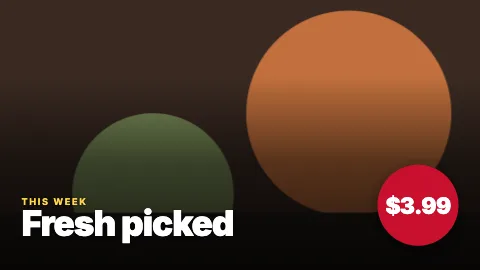
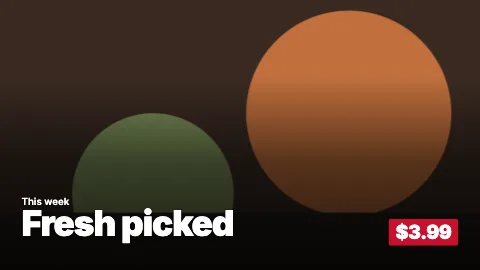
feat(photo-promo): the eyebrow in the text colour, the price a flat tag
The board's photo promo (#news-design): the eyebrow takes the kit's text colour instead of a second accent (3.6vmin,
600, sentence case), measured over the photo as before and on its scrim where nothing reads; the price is a flat tag
in the primary colour, with no disc and no shadow, its corners 2vmin at most. brandColourTests takes
`textColourOnBackdrop` for text in the kit's text colour. The #308 test's old kit now has its own text colour, so the
test fails without the guard. Photo promo 1.6.0.

Pi measurement waived by the owner (2026-11-26).

Changed region(s): [[0.7812, 0.5926, 0.9688, 0.9185], [0.0312, 0.7111, 0.1875, 0.7704]]

diff --git a/packages/template-test/src/index.ts b/packages/template-test/src/index.ts
@@ -460,7 +460,8 @@ export type BrandSpot = [data: Data, photo?: string, sampled?: boolean | 'broken
  * kit with poor on-colours, a light kit, a borderline accent, mid-tone accents, an accent just over
  * 3:1 and a mid-tone background. `spots(accent, orientation)` are the template's spots, given the
  * accent `$brand.accent` resolves to. `onFill` is text on a fill (text, fill, the ratio it needs);
- * `onBackdrop` is accent-coloured text, measured on whatever is behind it. With `sameWithSample`,
+ * `onBackdrop` is accent-coloured text, measured on whatever is behind it; `textColourOnBackdrop` is text in the kit's text
+ * colour, measured the same way and kept in that colour wherever it reads. With `sameWithSample`,
  * that text's colour, and whether it is on its scrim, is the same with the photo's sample as
  * without one and with one that does not decode.
  */
@@ -470,10 +471,11 @@ export function brandColourTests(
     spots: (accent: string, orientation: Orientation) => BrandSpot[] | Promise<BrandSpot[]>;
     onFill?: [text: string, fill: string, min: number][];
     onBackdrop: string[];
+    textColourOnBackdrop?: string[];
     sameWithSample?: string;
   },
 ) {
-  const { spots, onFill = [], onBackdrop, sameWithSample } = opts;
+  const { spots, onFill = [], onBackdrop, textColourOnBackdrop = [], sameWithSample } = opts;
   const demo = DEMO_KIT;
   // A kit may set its on-colours by hand; the brand tools only warn when a pair fails.
   const poor: BrandColors = { ...demo, onPrimary: '#2563eb', onAccent: '#ffffff' };
@@ -586,10 +588,10 @@ export function brandColourTests(
           expect(found).toEqual([]);
         });
 
-      // A kit's accent is kept wherever it reads (4.5:1, or 3:1 on large text), and gives way to black or white where it does not. With no kit, cstore-promo's and
-      // photo-promo's text is their own. 0.1 to spare: a template measures the ends of a gradient,
-      // this test the pixels in the box.
-      it(`accent text reads on its backdrop under ${label}, ${orientation}, in the accent where that reads`, async () => {
+      // A kit's accent, or its text colour, is kept wherever it reads (4.5:1, or 3:1 on large text), and gives way to black
+      // or white where it does not. With no kit, cstore-promo's and photo-promo's text is their own. 0.1 to spare: a
+      // template measures the ends of a gradient, this test the pixels in the box.
+      it(`accent and text-coloured text reads on its backdrop under ${label}, ${orientation}, in its colour where that reads`, async () => {
         const found: string[] = [];
         /** `sameWithSample` over each photo, with the photo's sample and without. */
         const seenWith = new Map<string, string[]>();
@@ -602,14 +604,18 @@ export function brandColourTests(
             const photo = name.replace(/, (sampled|broken sample)/, '');
             seenWith.set(photo, [...(seenWith.get(photo) ?? []), seen]);
           }
-          for (const text of onBackdrop) {
+          const inks = [
+            ...onBackdrop.map((sel) => [sel, 'accent', accent] as const),
+            ...textColourOnBackdrop.map((sel) => [sel, 'text colour', theme?.colors.text] as const),
+          ];
+          for (const [text, role, ink] of inks) {
             const { color, pixels, large } = await textOnBackdrop(f, page, text);
             const min = large ? 3 : 4.5;
             const ratio = worst(color, pixels);
             if (ratio < min) found.push(`${name} ${text}: ${color} is ${ratio.toFixed(2)}:1 on its backdrop, below ${min}:1`);
-            const reads = worst(rgb(accent), pixels);
-            if (theme && color !== rgb(accent) && reads >= min + 0.1)
-              found.push(`${name} ${text}: ${color}, not the accent, which reads at ${reads.toFixed(2)}:1`);
+            if (!theme || !ink) continue;
+            const reads = worst(rgb(ink), pixels);
+            if (color !== rgb(ink) && reads >= min + 0.1) found.push(`${name} ${text}: ${color}, not the ${role}, which reads at ${reads.toFixed(2)}:1`);
           }
         });
         // The sample stands in for the photo, and a broken one leaves the photo: the same text every way.

diff --git a/templates/photo-promo/test/browser.test.ts b/templates/photo-promo/test/browser.test.ts
@@ -73,21 +73,22 @@ brandColourTests(t, {
     ];
   },
   onFill: [['.tag', '.tag', 4.5]],
-  onBackdrop: ['.eyebrow'],
+  onBackdrop: [],
+  textColourOnBackdrop: ['.eyebrow'],
   sameWithSample: '.eyebrow',
 });
 
 // The SDK restores the document and inits again on new data, while the old prepare may still be
 // measuring the eyebrow's backdrop. Here the first prepare is held at its first wait until the new
 // data has played its own prepare: resuming must not set the eyebrow's colour on the new document
-// (#308). The old data's kit has a green accent and the new data's none, so the old prepare's
-// eyebrow colour (green, black or white) is never the new one's (the default accent).
+// (#308). The old data's kit has green text and the new data's none, so the old prepare's eyebrow
+// colour (green, or black on its scrim) is never the new one's (the default white).
 describe('photo-promo (#308)', () => {
   it('a prepare that new data replaced, resuming while it measures, leaves the new document as a fresh load', async () => {
     const hst = await host('landscape', true);
     const a = spotData(t().manifest, { body: 'Picked this morning' });
     const b = spotData(t().manifest, { headline: 'Two for one' });
-    const green: FrameTheme = { colors: { ...DEMO_KIT, accent: '#22c55e' }, shape: 'soft', fonts: {} };
+    const green: FrameTheme = { colors: { ...DEMO_KIT, text: '#22c55e' }, shape: 'soft', fonts: {} };
     await hst.open('fresh', t().html);
     await hst.init('fresh', b, { photo: '#000000' }, undefined, undefined, true);
     await hst.waitFor('fresh', 'ready', 1);
@@ -151,4 +152,23 @@ for (const orientation of ['landscape', 'portrait'] as const)
     const durationMs = 11_000;
     const f = await k.play({ body: 'Picked this morning' }, undefined, durationMs);
     expect(await motionContract(f, durationMs)).toEqual([]);
+  });
+
+// The board's photo promo (#news-design): the price is a flat tag, not a floating disc with a shadow.
+for (const orientation of ['landscape', 'portrait'] as const)
+  it(`shows the price as a flat tag, ${orientation}`, async () => {
+    const k = await screenFrame(t(), orientation, { photo: '#963' });
+    const tag = await (await k.play({}, { colors: DEMO_KIT, shape: 'round', fonts: {} })).evaluate(() => {
+      const el = document.querySelector('.tag')!;
+      const style = getComputedStyle(el);
+      const box = el.getBoundingClientRect();
+      return {
+        shadow: style.boxShadow,
+        radius: Number.parseFloat(style.borderTopLeftRadius) / (Math.min(innerWidth, innerHeight) / 100),
+        wider: box.width > box.height,
+      };
+    });
+    expect(tag.shadow).toBe('none');
+    expect(tag.radius).toBeLessThanOrEqual(2);
+    expect(tag.wider).toBe(true);
   });

diff --git a/templates/photo-promo/main.ts b/templates/photo-promo/main.ts
@@ -10,12 +10,12 @@ defineTemplate({
     const kit = ctx.root.style;
     const primary = kit.getPropertyValue('--sf-primary');
     if (primary) kit.setProperty('--sf-on-primary', readableOn(primary, kit.getPropertyValue('--sf-on-primary')));
-    // The eyebrow is the accent over the photo, seen through a shade of the background: measured
-    // there, it is the accent where that reads, else black or white. A photo with light and dark
+    // The eyebrow is the text colour over the photo, seen through a shade of the background: measured
+    // there, it is the text colour where that reads, else black or white. A photo with light and dark
     // under it can leave none reading, and the eyebrow then sits on a fill of the background.
     const css = getComputedStyle(ctx.root);
     const bg = css.getPropertyValue('--bg');
-    const accent = css.getPropertyValue('--accent');
+    const ink = css.getPropertyValue('--text');
     const eyebrow = document.querySelector<HTMLElement>('.eyebrow')!;
     // Unpainted until prepare returns: a frame that paints the photo has it decoded for the screen
     // first, and the SDK's decode before ready then waits behind that one (on the Pi, 80 ms more).
@@ -27,9 +27,9 @@ defineTemplate({
     // and inits again. Rejecting stops this prepare there, and the SDK drops a superseded prepare's error.
     if (document.body !== page) throw new Error('new data replaced this prepare');
     img.style.visibility = '';
-    const over = readableOver(pixels, accent, { large: true, lightest });
+    const over = readableOver(pixels, ink, { large: true, lightest });
     if (!over) eyebrow.classList.add('scrim');
-    kit.setProperty('--accent-text', over ?? readableOn(bg, accent, { large: true }));
+    kit.setProperty('--eyebrow-ink', over ?? readableOn(bg, ink, { large: true }));
   },
 });
 

diff --git a/templates/photo-promo/style.css b/templates/photo-promo/style.css
@@ -119,7 +119,6 @@ body {
 :root {
   --bg: var(--sf-bg, #000);
   --text: var(--sf-text, #fff);
-  --accent: var(--sf-accent, #ffd84a);
 }
 body {
   font-family: var(--sf-font-body, 'Inter'), sans-serif;
@@ -176,12 +175,11 @@ body {
     rise-in 0.65s var(--d-in) both,
     fade-out 0.3s var(--d-out) forwards;
 }
+/* The eyebrow in the text colour, not a second accent: the price tag is the one colour. */
 .eyebrow {
-  font-size: calc(var(--u) * 3.4);
-  font-weight: 700;
-  letter-spacing: 0.18em;
-  text-transform: uppercase;
-  color: var(--accent-text, var(--accent));
+  font-size: calc(var(--u) * 3.6);
+  font-weight: 600;
+  color: var(--eyebrow-ink, var(--text));
   animation-delay: 0.3s, var(--out);
 }
 /* Where nothing reads over the photo under the eyebrow (main.ts), it gets a fill of the background.
@@ -207,21 +205,19 @@ body {
   margin-top: calc(var(--u) * 2);
   animation-delay: 0.52s, var(--out);
 }
+/* The price, a flat tag in the primary colour beside the copy's foot: no disc, no shadow. */
 .tag {
   position: absolute;
   right: calc(var(--u) * 8);
   bottom: calc(var(--u) * 9);
-  width: calc(var(--u) * 30);
-  aspect-ratio: 1;
-  border-radius: 50%;
-  display: grid;
-  place-items: center;
+  padding: calc(var(--u) * 1.4) calc(var(--u) * 2.6);
+  border-radius: min(var(--sf-radius, calc(var(--u) * 1)), calc(var(--u) * 2));
   background: var(--sf-primary, #c8102e);
   color: var(--sf-on-primary, #fff);
-  font-size: calc(var(--u) * 8.4);
+  font-size: calc(var(--u) * 7.2);
   font-weight: 900;
+  line-height: 1;
   letter-spacing: -0.03em;
-  box-shadow: 0 2vmin 6vmin color-mix(in srgb, var(--bg) 50%, transparent);
   will-change: transform, opacity;
   animation:
     tag-in 0.65s var(--d-in) both,

diff --git a/docs/template-spec.md b/docs/template-spec.md
@@ -82,9 +82,9 @@ Each template's browser tests check it (`templates/<id>/test/browser.test.ts`, i
 - `readableOver(pixels, text, { large, lightest })` from `@signforge/template-sdk/backdrop` is the same for a backdrop that is not one colour, text over a photo: given the RGBA pixels behind the text, it is `text` when it reads on every one, else black or white when one of them does, else undefined, and the text needs a fill of its own. With `lightest`, the pixels are an image's sample: each cell's darkest pixel in `pixels` and its lightest at the same place in `lightest`, and the text must read on every colour between the two.
   - **Read the sample, not the photo.** An image uploaded or built since #169 has a sample (`ManifestFile.sample` in the contract): its darkest and lightest pixel in each cell of `IMAGE_SAMPLE_CELL` (16) px, as a PNG of the darkest cells over the lightest. `init` carries it beside the image, as `ctx.assets[sampleAsset(field)]` (both from the same entry point). Drawing the photo into a canvas decodes it again on the main thread, whatever the size of the part read: 70 ms of a Pi's prepare for a 1080p photo. The sample is a few hundred times fewer pixels.
   - **Do not wait for the photo, and do not let it paint, while `prepare` runs.** Before `ready` the SDK awaits `img.decode()`, and the first frame's raster decodes the photo again; the two run one after the other, off the main thread, about 100 ms on a Pi. When a frame paints the loaded photo while `prepare` is still running, the raster's decode is scheduled first and the SDK's waits behind it, so `ready` waits for both: on the Pi that, not the canvas, was most of what #168 cost (`spike/pi-perf/RESULTS.md`, Photo samples). So photo-promo hides its photo (`visibility: hidden`) until `prepare` returns, and takes the photo's size from its sample, to the cell, rather than waiting for the photo to load. Calling `img.decode()` early does not help: each call decodes again.
-  - **photo-promo's eyebrow** maps the text's box to the photo's pixels, wherever the push-in takes it during the spot, for every size within the cell the photo can be, and draws the sample's cells under that into a canvas, without smoothing, twice over: its darkest cells and its lightest. It paints the shade over each as the shade is at the box's top and at its bottom, and reads that once. A cell is a range, not an average: averaging is what kept the demo kit's orange at 2.88:1 in portrait over a 4K photo, measured one pixel per 4 px (#168). The two are chosen before the shade, so under it a third pixel of the cell can come out a little darker or lighter than both (a search of random pixels found up to 1.16 times the contrast under a dark kit's shade, 1.4 under a light or coloured one). Real photos rarely have such cells, and none of 252 cases measured on screen fell under 3:1. A sample that does not decode, or that the player does not hold yet, leaves the template to measure the photo.
+  - **photo-promo's eyebrow**, in the kit's text colour (the price tag is its one colour), maps the text's box to the photo's pixels, wherever the push-in takes it during the spot, for every size within the cell the photo can be, and draws the sample's cells under that into a canvas, without smoothing, twice over: its darkest cells and its lightest. It paints the shade over each as the shade is at the box's top and at its bottom, and reads that once. A cell is a range, not an average: averaging is what kept the demo kit's orange at 2.88:1 in portrait over a 4K photo, measured one pixel per 4 px (#168). The two are chosen before the shade, so under it a third pixel of the cell can come out a little darker or lighter than both (a search of random pixels found up to 1.16 times the contrast under a dark kit's shade, 1.4 under a light or coloured one). Real photos rarely have such cells, and none of 252 cases measured on screen fell under 3:1. A sample that does not decode, or that the player does not hold yet, leaves the template to measure the photo.
   - **Without a sample** (an image uploaded before samples, or one with transparent pixels), or for a photo painted at more than twice its size, which is small and quick to decode and whose cells would each cover more than 32 px of screen, it waits for the photo to load and draws the photo itself, one pixel per pixel the screen paints it at, without awaiting `img.decode()` first, which decodes it a second time.
-  - Where nothing reads, the eyebrow sits on a fill of the kit's background (a scrim) in `readableOn(bg, accent, { large: true })`. Its own entry point for the same reason as `contrast`: any edit to `contrast` renames symbols in every bundle that imports it.
+  - Where nothing reads, the eyebrow sits on a fill of the kit's background (a scrim) in `readableOn(bg, text, { large: true })`. Its own entry point for the same reason as `contrast`: any edit to `contrast` renames symbols in every bundle that imports it.
 - `qrSvg(text, label)` from `@signforge/template-sdk/qr` draws a `url` field's value as a QR code: an `<svg>` that fills its box, named `label` for screen readers. It is always dark modules on a white tile with the four-module quiet zone readers need, whatever the brand kit: a phone's reader needs dark on light and real contrast, so never recolour it. A longer address means more, smaller modules, so give the tile room and check on the Pi that a phone scans it from where people will stand. The Announcement sizes its tile for a scan from 2 m on a 55-inch 1080p panel: at least 30vmin (324 px at 1080p), which at about 0.63 mm a pixel is about 20 cm, a tenth of the distance, the usual rule for a phone's reader. On the 32-inch test monitor (700 mm wide, 0.36 mm a pixel) the same tile is about 12 cm, enough for about 1.2 m. The Announcement's `qrUrl` allows 100 characters, version 6 at error correction M (41 modules and the quiet zone), so about 6.6 px a module at 30vmin; its browser test decodes a 100-character address at the size drawn in every look. A longer limit needs a larger tile for the same module: Alert's `qrUrl` allows 213 bytes (`maxBytes`), the most QR version 10 holds at error correction M in any script (57 modules and the quiet zone), so it draws its tile at 40vmin, about 6.65 px a module, and its browser test decodes a 213-byte link, in ASCII and in Japanese, at the size drawn in every severity and orientation (#230). Error correction is M (a code still reads with 15% of it lost to glare). Place it in `prepare` (`box.replaceChildren(qrSvg(url, label))`) and leave the box out when the field is empty. Its own entry point, so templates that do not draw a QR code keep their bundles byte for byte; one that does carries the encoder's MIT notice (uqr) at the end of its script, as the licence requires.
 - `wallTime(ctx, value)` from `@signforge/template-sdk/wall-time` is the instant a `datetime` field's wall time falls on in the screen's zone (`ctx.timezone`), or a `date` field's day starts on there. Work out what depends on it in `prepare`, from `now()`: a countdown's time to go is `wallTime(ctx, target).getTime() - now().getTime()`, and whether a `date` is today is `dayKey(ctx, now()) === day`. A wall time the clocks skip (02:30 the night they go forward) falls as much later as they jumped (03:30); one they repeat (01:30 the night they go back) is the first. Show the value with `formatter(ctx, …)` on that instant. Its own entry point, so templates that do not read dates keep their bundles byte for byte.
 - `now()` is the screen's time: the device clock corrected from the server. Use it, never `new Date()` or `Date.now()`, for anything that depends on the time: a Pi has no battery-backed clock, and after a power cut its own clock can be days out. Something that follows the time without new data, like weather's sun and sky, works out its state in `prepare` from `now()`: the player prepares every play afresh, so it moves on from one play to the next. Round to the minute what should change at most once a minute.

diff --git a/packages/template-test/README.md b/packages/template-test/README.md
@@ -32,7 +32,7 @@ Every template: the update lifecycle, above, and D's motion in both orientations
 - **info-frame** (#201), at 1920x1080: in each look and orientation, in every rail, crawl and toggle setting at the longest copy, no text runs off the screen, past its clamp, sideways out of a clamped box, out of a box that clips it or off its card, nothing is painted over a text, and no two texts, the logo or a weather glyph overlap; an unbroken word at each text field's `maxLength` wraps or truncates without sideways clipping; with the defaults nothing is shrunk; every text reads on an opaque card across all 288 rail × crawl × toggle settings, and as painted in every look and layout, with no kit, the demo kit and a light kit; a logo-only rail is dropped, without a rail the clock and the weather go onto the photo, and type grows into what is left; each toggle is marked and removes its part; the time, date and next three days from `init`'s clock and zone, in 12 and 24 hours; the minute turns with Playwright's clock, the time written at most once a second; weather words from the code, day and night, and each look's forecast; the crawl's speed; the photo unpainted until play; intros and outros ending with the spot, only `transform` and `opacity`, at most 50 elements, in portrait only the crawl looping; with reduced motion nothing animates.
 - **menu-board**: the tags' text on their fill and the prices, in the accent, on their card, light and dark, under every brand kit.
 - **news** (2.1, design D, #476): in every look and orientation, at the longest copy and in every toggle setting, no text runs off its story or the screen, is painted over or meets the photo; every photo shape is drawn whole, at most 1.25 times its size, beside the text; the headline hangs from one place whatever the photo; headlines step down and are cut on a word to their lines, every line filled; no text box clips a descender; the spot's credit names the source; every text reads as painted with no kit, the demo kit and a light kit, and Poster's age and bar share one accent; the strip numbers the stories and the bar moves under each as it comes on; each part's intro and outro on design D's timeline, nothing overshooting; the time and each story's age from `init`'s clock; only the first photo decoded before ready; with reduced motion nothing animates.
-- **photo-promo**: the price tag's text on its fill and the eyebrow on its backdrop under every brand kit, over a white, a black, a mid-grey and a black-and-white striped photo (broad, and 1 px wide at the screen's scale) and over photos with a block of the other colour under the eyebrow, each with its sample and without; the eyebrow is the same with the photo's sample as without, and with a sample that does not decode.
+- **photo-promo**: the price tag's text on its fill and the eyebrow on its backdrop under every brand kit, over a white, a black, a mid-grey and a black-and-white striped photo (broad, and 1 px wide at the screen's scale) and over photos with a block of the other colour under the eyebrow, each with its sample and without, in the kit's text colour wherever that reads; the eyebrow is the same with the photo's sample as without, and with a sample that does not decode; the price is a flat tag, with no shadow and corners of 2vmin at most; a prepare that new data replaced leaves the new document as a fresh load (#308).
 - **room-status** (#199), at 1920x1080 from `init`'s clock: free between meetings, busy (the organiser named only when the spot asks), in back-to-back meetings, after the last meeting, with no events, with only tomorrow booked, with an all-day event, and with one while the schedule is off, each saying free or busy, for how long and what then; in New York, across the clocks going back and forward and across midnight; in every look and orientation, with every toggle on, each off alone and all off, on a free, a busy, a double-booked and an empty day at the longest copy, no text runs off the screen, past its clamp or out of a box that clips it, no two texts overlap (the now line and Pop's pin counted as text), nothing is painted over a text, and the schedule is never drawn empty; every text reads as painted under no kit, the demo kit and a light kit; each toggle is marked and removes its part, and the type steps up without the schedule; the clock in 12 and 24 hours; every element's intro and outro end with the spot, only `transform` and `opacity` move, within the cap; with reduced motion nothing animates.
 - **weather** (#70): the sun low at sunrise, high at midday and low at sunset, with dawn and dusk skies around them; the moon across the night to the next sunrise; a spot left playing across sunset goes from day to dusk to night with no new data; without sunrise and sunset, `isDay` as before, whatever the clock says; every text in the forecast card reads (4.5:1, 3:1 large) as painted, at dawn, day, dusk and night, in every condition, with no kit, the demo kit and a light kit.
 - **the look kit** (`packages/template-looks`, #190), its test template at 1920x1080: every text reads as painted in each look, with no kit, the demo kit and a light kit, with the photo and body on and off, in landscape and portrait; a look loads only its own faces, all loaded by `ready`; each look's accent is kept where it reads and gives way where it does not; each toggle is marked on the root, an element switched off is removed, the copy widens and the type steps up by the look's step, and no clamped text overflows; every element has an intro and an outro ending with the spot, and only `transform` and `opacity` move; every look keeps D's motion (`motionContract`) in both orientations, and `motionContract` passes a centred element, a monotone multi-step entrance and a move on the standard curve, and linear progress across the screen or a half turn; it names a clip-path or mask reveal, an overshoot, a rotation, a transition off its curve, an exit 1 ms early, an alternating wobble, a far slide in at full opacity or from nearly none, a linear first step, keyframes a `::before` names that do not exist, a linear `from` on a two-keyframe entrance, progress along two axes that grows and runs back and forth, a 10 Hz flash, a far slide after 2 s, a non-covering element swelling to 1.1, and a part leaving after its story hides; a full turn of a ring passes; the photo drifts in landscape and holds still in portrait; with reduced motion nothing animates and the crawl is one line cut with an ellipsis; the crawl holds its text twice and slides by one copy at the look's speed.
